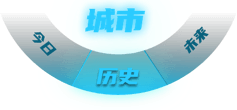
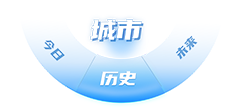
样式调整

diff --git a/src/page/sourcelayer/sourcelayer.vue b/src/page/sourcelayer/sourcelayer.vue
@@ -3,11 +3,11 @@
     <div class="cesium-map">
       <cesium-map ref="cesiumMap" />
     </div>
-    <div class="mask-wrapper">
+    <!-- <div class="mask-wrapper">
       <div class="left"></div>
       <div class="right"></div>
       <div class="bottom"></div>
-    </div>
+    </div> -->
   </div>
 </template>
 <script>

diff --git a/src/components/sourcelayer/roulette/roulette.vue b/src/components/sourcelayer/roulette/roulette.vue
@@ -35,8 +35,8 @@ export default {
       const value =
         this.forceTime == "now"
           ? index == 1
-            ? "future"
-            : "pass"
+            ? "pass"
+            : "future"
           : this.forceTime == (index == 1 ? "future" : "pass")
           ? index == 1
             ? "pass"
